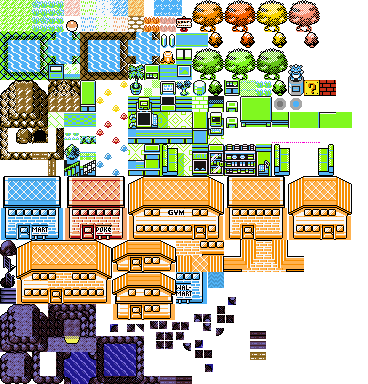
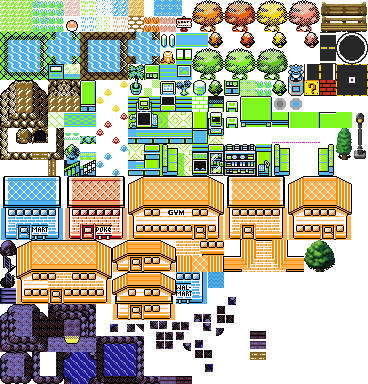
added route03

Changed region(s): [[0.8071, 0.0, 1.0, 0.25], [0.8967, 0.2812, 1.0, 0.4375], [0.8071, 0.625, 0.9266, 0.7188]]

diff --git a/MapEditor/main.cpp b/MapEditor/main.cpp
@@ -5,10 +5,10 @@ int main()
 {
 	if (!MapMaker::mainFont.loadFromFile("Carlito-Regular.ttf"))
 		throw;
-	MapMaker makeMe("emeraldZone.png", sf::Vector2u(32, 32), 21, 12);
-	makeMe.setBlankTile(0);
+	MapMaker makeMe("gen1.png", sf::Vector2u(16, 16), 100, 25);
+	makeMe.setBlankTile(551);
 
-	std::string fileName{ "gym02.dat" };
+	std::string fileName{ "route03.dat" };
 
 	makeMe.setMapFileName(fileName);
 	makeMe.load(fileName);
